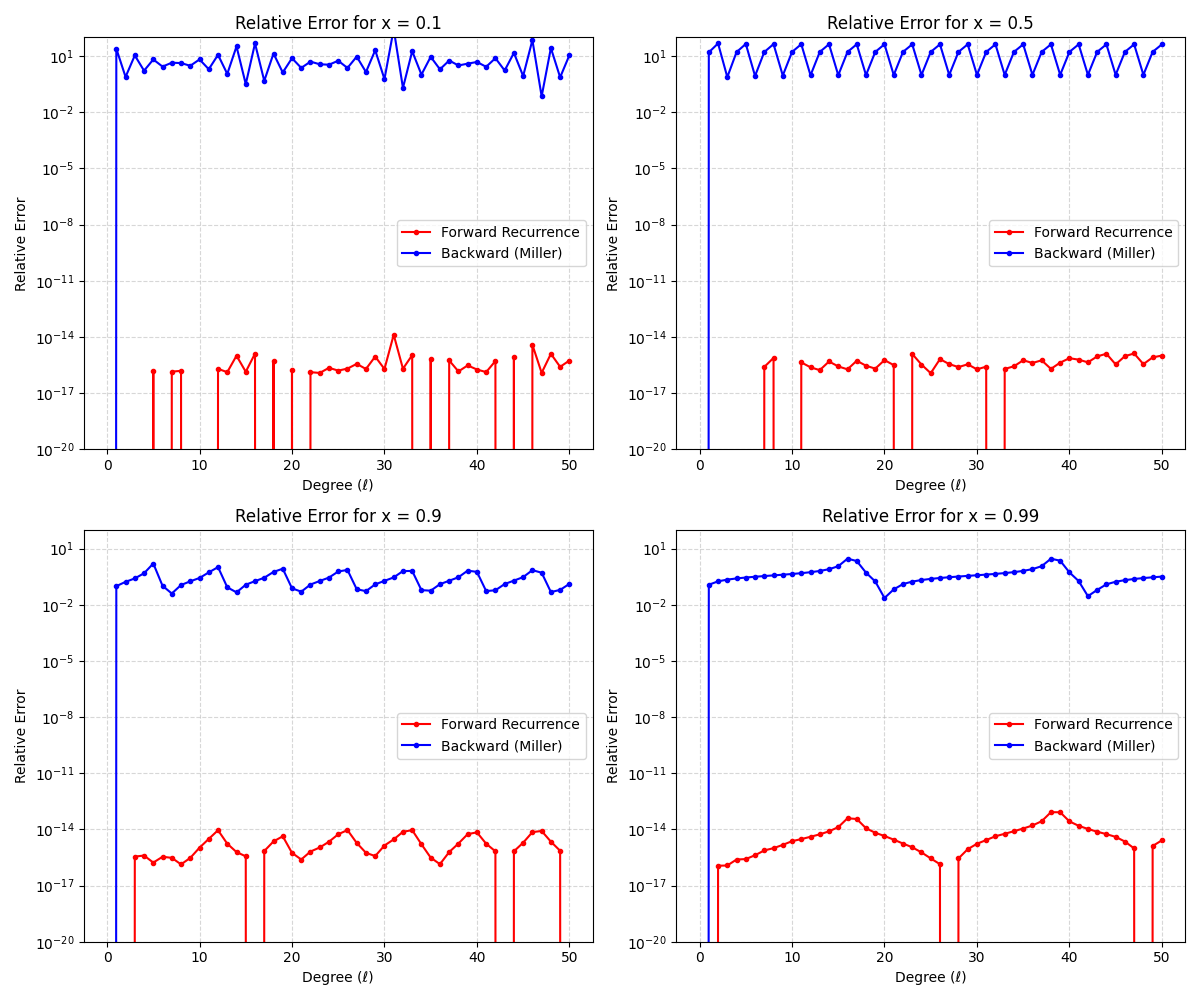
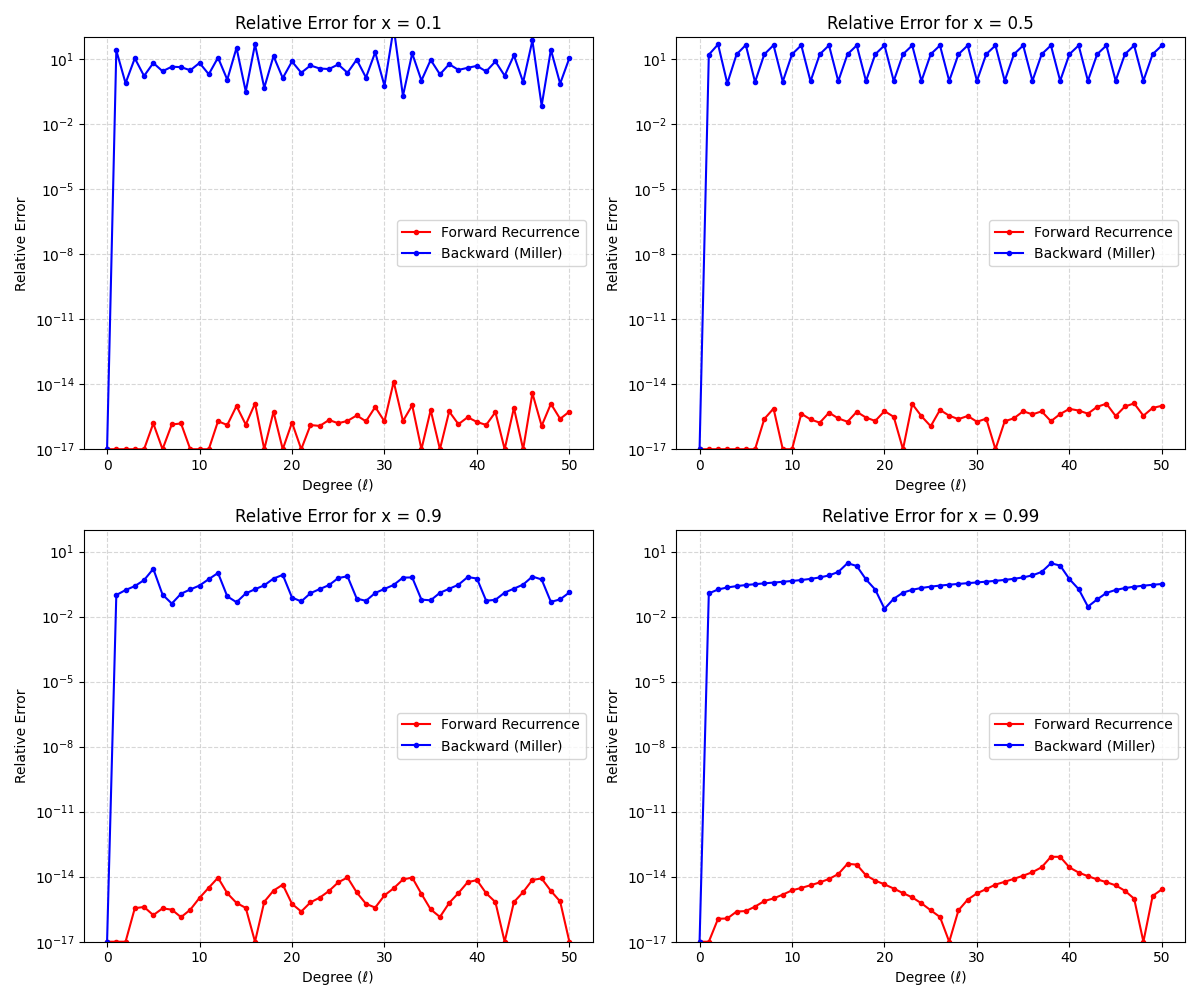
correction H05

diff --git a/Homework05/plot.py b/Homework05/plot.py
@@ -1,111 +1,67 @@
 import pandas as pd
-
 import matplotlib.pyplot as plt
 
-
-
 # Load the C output
-
 df = pd.read_csv("legendre_errors.csv")
+
+# ==========================================
+# CLAMP ERRORS TO 1e-17
+# ==========================================
+# Apply a lower bound of 1e-17 to all error columns
+error_cols = ['err_fwd_rel', 'err_bwd_rel', 'err_fwd_abs', 'err_bwd_abs']
+for col in error_cols:
+    df[col] = df[col].clip(lower=1e-17)
 
 x_values = df['x'].unique()
 
-
-
 # ==========================================
-
 # PLOT 1: RELATIVE ERROR
-
 # ==========================================
-
 fig_rel, axes_rel = plt.subplots(2, 2, figsize=(12, 10))
-
 axes_rel = axes_rel.flatten()
 
-
-
 for i, x in enumerate(x_values):
-
     subset = df[df['x'] == x]
-
-   
-
+    
     ax = axes_rel[i]
-
     ax.plot(subset['l'], subset['err_fwd_rel'], 'r.-', label='Forward Recurrence')
-
     ax.plot(subset['l'], subset['err_bwd_rel'], 'b.-', label='Backward (Miller)')
-
-   
-
+    
     ax.set_yscale('log')
-
     ax.set_title(f'Relative Error for x = {x}')
-
     ax.set_xlabel('Degree (ℓ)')
-
     ax.set_ylabel('Relative Error')
-
-    ax.set_ylim(1e-20, 1e2)
-
+    ax.set_ylim(1e-17, 1e2)
     ax.grid(True, which="both", ls="--", alpha=0.5)
-
     ax.legend()
-
-
 
 fig_rel.tight_layout()
-
 fig_rel.savefig("legendre_relative_errors_plot.png") # Save before show!
 
-
-
 # ==========================================
-
 # PLOT 2: ABSOLUTE ERROR
-
 # ==========================================
-
 fig_abs, axes_abs = plt.subplots(2, 2, figsize=(12, 10))
-
 axes_abs = axes_abs.flatten()
 
-
-
 for i, x in enumerate(x_values):
-
     subset = df[df['x'] == x]
-
-   
-
+    
     ax = axes_abs[i]
-
     ax.plot(subset['l'], subset['err_fwd_abs'], 'r.-', label='Forward Recurrence')
-
     ax.plot(subset['l'], subset['err_bwd_abs'], 'b.-', label='Backward (Miller)')
-
-   
-
+    
+    # Optional: If you want the absolute error to also be log-scale so the 1e-17 floor is visible
+    # ax.set_yscale('log') 
+    
     ax.set_title(f'Absolute Error for x = {x}')
-
     ax.set_xlabel('Degree (ℓ)')
-
     ax.set_ylabel('Absolute Error')
-
-    ax.set_ylim(0, 10)
-
+    ax.set_ylim(0, 10) # Note: If you switch to log scale, update these limits!
     ax.grid(True, which="both", ls="--", alpha=0.5)
-
     ax.legend()
 
-
-
 fig_abs.tight_layout()
-
 fig_abs.savefig("legendre_absolute_errors_plot.png") # Save before show!
 
-
-
-# Show both figures at the end
-
-plt.show()
+# Show both figures at t
